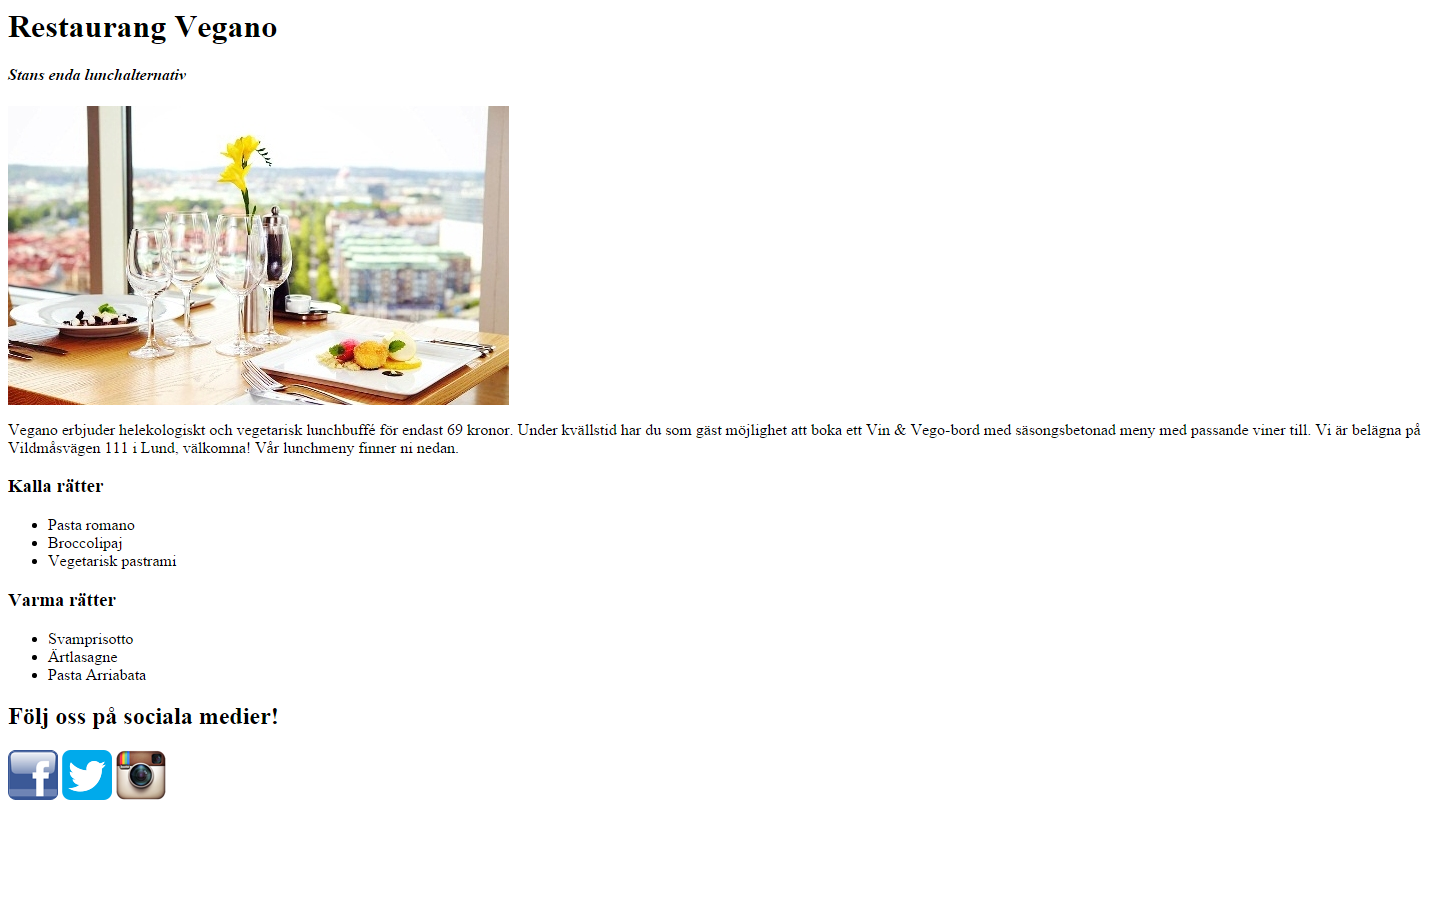
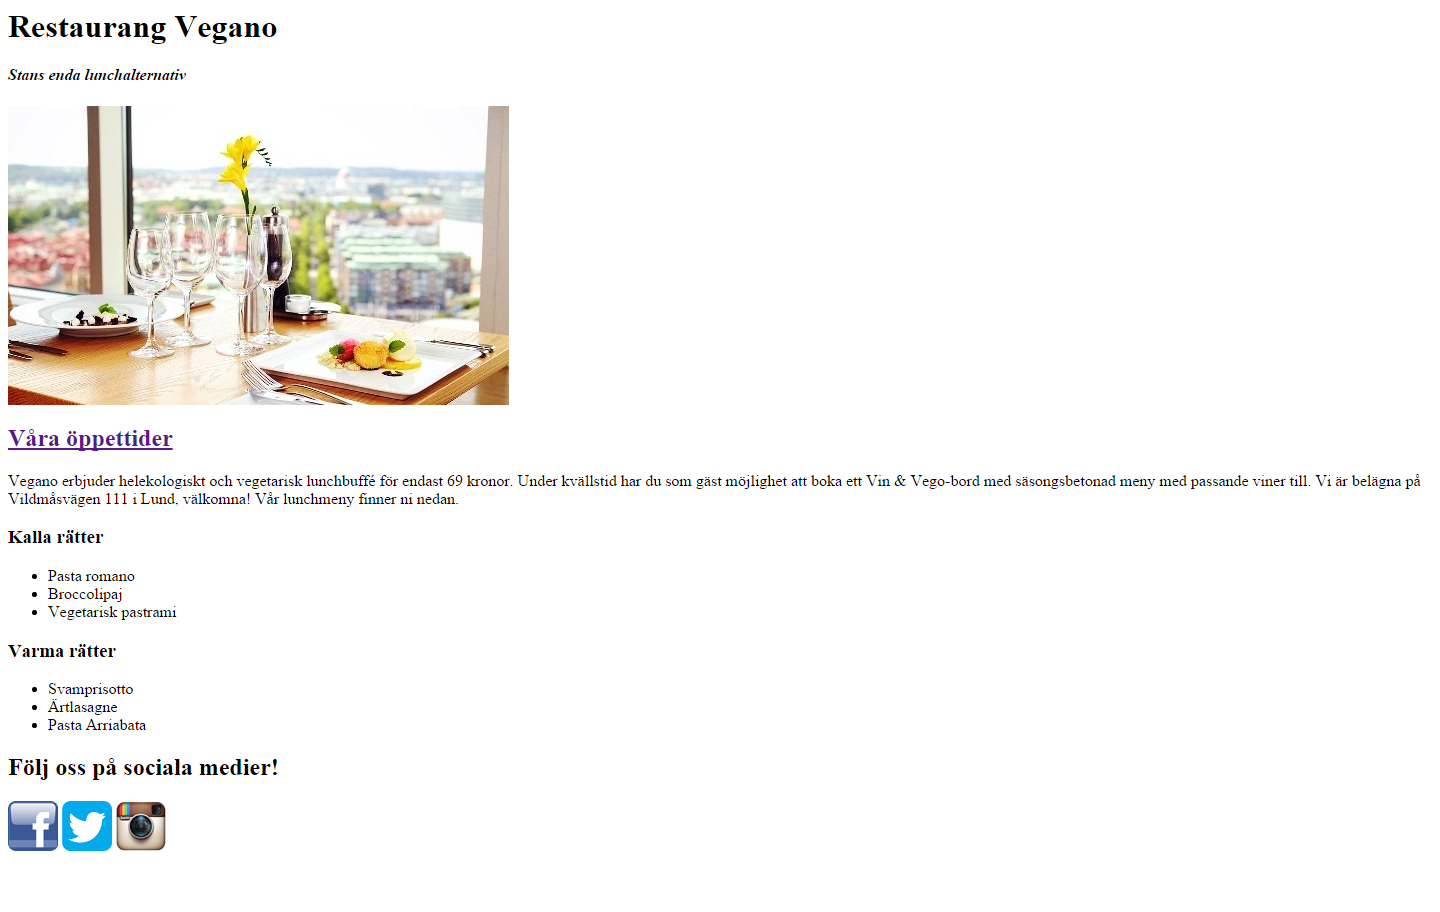
Added content and changes to Images-tutorial

Changed region(s): [[0.0, 0.4605, 1.0, 0.9518]]

diff --git a/exercises/1/ImagesLinks/ex2.html b/exercises/1/ImagesLinks/ex2.html
@@ -6,6 +6,7 @@
     <h1>Restaurang Vegano</h1>
     <h4><i>Stans enda lunchalternativ</i></h4>
     <img src="http://www.svenskamassan.se/Global/svenskamassan/bilder/restaurang.jpg" alt="Risotto">
+    <a href="http://www.facebook.com"><h2>Våra öppettider</h2></a>
     <p>Vegano erbjuder helekologiskt och vegetarisk lunchbuffé för endast 69 kronor. Under kvällstid har du som gäst möjlighet att boka ett Vin & Vego-bord med säsongsbetonad meny med passande viner till. Vi är belägna på Vildmåsvägen 111 i Lund, välkomna! Vår lunchmeny finner ni nedan.</p>
     
     <h3>Kalla rätter</h3>

diff --git a/exercises/1/ImagesLinks/index.php b/exercises/1/ImagesLinks/index.php
@@ -1,12 +1,12 @@
 <h2>Övning 3 - Bilder & länkar</h2>
     <h3>1. Fräscha upp hemsidan</h3>
-        <p>Vegano har övervägt och man önskar ha smakfull bild på restaurangen samt ett par länkar till de vanligaste sociala medierna som man använder:                facebook, twitter och instagram.</p>
+        <p>Vegano har övervägt och man önskar ha smakfull bild på restaurangen samt ett par länkar till de vanligaste sociala medierna som man använder:                facebook, twitter och instagram. Man skulle även vilja ha en länk som går till en del av hemsidan som visar deras öppettider.</p>
 
         <p>Vi ska i denna övning utgå från föregående kod som vi har lyckats få ihop hittills. Resultatet efter våra tillägg bör rimligen se ut på detta                vis:</p>
             <p><a href="/exercises/1/ImagesLinks/ex2.png" data-lightbox="Webbsida" data-title="Exempellösning"><img src="/exercises/1/ImagesLinks/ex2.png"                    style="width:250px; box-shadow:0 0 5px #000; display:block; margin:auto;">.</a></p>
-    <h3>2. Bild</h2>
+    <h3>2. Huvudbild - absolut sökväg</h2>
         <p>Det första vi kan börja med är att leta upp en trevlig bild på en restaurang. Har du ingen inspiration kan du ta denna 
-            <a href="http://www.svenskamassan.se/Global/svenskamassan/bilder/restaurang.jpg">bild</a>. Du kan antingenanvända länken direkt till bildtaggen             eller ladda ner den och länka till bilden i din mapp. Vegano önskar ha bilden precis under sina huvudrubriker, ungefär såhär.</p>
+            <a href="http://www.svenskamassan.se/Global/svenskamassan/bilder/restaurang.jpg">bild</a>. Använd hela länkens adress och stoppa i den i din tagg som en <i><a href="http://localhost:1234/lectures.php?type=Modul1&nr=Images#212-Absoluta-sokvagar">absolut sökväg</a></i>. Vegano önskar ha bilden precis under sina huvudrubriker, ungefär såhär.</p>
 <pre class="language-markup line-numbers" data-type="html"><code class="language-markup line-numbers">
 &lt;!doctype html&gt;
 &lt;html&gt;
@@ -21,45 +21,31 @@
 &lt;/html&gt;
 </code></pre> <!--Kan man gömma detta och låta studenten trycka på en knapp för att se lösningen?-->
 
-<h3>3. Rubriker</h3>
-<p>Nu när vi fått ordning på informationen om dokumentet ifråga ska vi börja med det inledande innehållet. Vi går nedåt ett snäpp från huvudet och ner på resten av <i>kroppen</i> (eng. body). Därför behöver vi definiera var detta innehåll ska vara.</p>
+<h3>3. Ikoner - relativ sökväg</h3>
+<p>En bild säger mer än tusen rader kod brukar det sägas, vilket lyft! Nästa utmaning vi ska ta oss an är att lägga upp ikonerna för facebook, twitter och instagram på slutet av sidan och sedan gör dem klickbara. Vi börjar med ikonerna. Till skillnad från föregående bild ska vi nu försöka länka dem direkt från en mapp på datorn, det vill säga som en <i><a href="http://localhost:1234/lectures.php?type=Modul1&nr=Images#211-Relativa-sokvagar">relativ sökväg</a></i>. Varje ikon kommer behöva en egen <code>&lt;img&gt;</code> tagg! Ladda ner följande zipfil och extrahera den i samma mapp som ditt HTML-dokument. Sökvägen bör se ut ungefär såhär:</p>
 <pre class="language-markup line-numbers" data-type="html"><code class="language-markup line-numbers">
-&lt;head&gt;
-    &lt;title&gt;&lt;/title&gt;
-&lt;/head&gt;
-&lt;body&gt;
-
-&lt;/body&gt;
+&lt;img src="images/namnet-på-din-bild"&gt;
 </code></pre>
-<p>Försök nu att placera in en passande rubrik mellan 'kropp'-taggarna samt en mindre rubrik nedanför den stora med en slogan. Storlek på rubriken bestäms från h1 (störst) till h6 (minst).
-<pre class="language-markup line-numbers" data-type="html"><code class="language-markup line-numbers">
-&lt;h1&gt;&lt;h2&gt;&lt;h3&gt;&lt;h4&gt;&lt;h5&gt;&lt;h6&gt;
-</code></pre>
+<p>Placera nu in ikonerna på rätt plats i dokumentet!
     
 <!-- Sätt in exempel -->
 
 
-<h3>3. Presentation och paragrafer</h3>
-<p>Förhoppningsvis sitter rubriken på plats! Nu är det dags att skriva en presentation och placera den i rätt ordning. Restaurangen har önskat en egen presentation, men du får gärna strunta i vad de tycker och skriva en bättre om du önskar. Använd paragraf-taggar för presentationen!</p>
-
+<h3>3. Klickbara ikoner</h3>
+<p>I <a href="http://localhost:1234/lectures.php?type=Modul1&nr=Links">länkföreläsningen</a> bekantade vi oss med <code>&lt;a&gt;</code> (står för eng. <i>anchor</i>) där vi kan ange relativa eller absoluta sökvägar till en annan plats. Det roliga är att bilder/ikoner också kan vara länkar! För att göra en klickbara ikoner behöver vi definiera dels vad det är som klickas på samt var vi hamnar när vi klickar på det. Du behöver därför "nästla" (eng. <i>nesting</i>) ikonerna innanför din <code>&lt;a&gt;</code> tagg: </p>
 <pre class="language-markup line-numbers" data-type="html"><code class="language-markup line-numbers">
-&lt;p&gt;&lt;/p&gt;
+&lt;a href="länk-till-annan-sida"&gt;&lt;img src="images/namnet-på-din-bild"&gt;&lt;/a&gt;
 </code></pre>
-<br>
-<p><i>"Vegano erbjuder helekologisk och vegetarisk lunchbuffé för endast 69 kronor. Under kvällstid har du som gäst möjlighet att boka ett Vin & Vego-bord med säsongsbetonad meny med passande viner till. Vi är belägna på Vildmåsvägen 111 i Lund, välkomna! Vår lunchmeny finner ni nedan."</i></p>
+<p>Använd gärna adresserna till rätt hemsida till varje ikon. Pröva sedan att byta ut adresserna och se vad som händer!</p>
 
-<h3>4. Menylista </h3>
-<p>Slutligen vill restaurangen att en del av deras lunchmeny ska finnas tillgänglig. Uppdelningen bör vara i rubriker med kalla och varma rätter med varsin punktad lista.</p>
+<h3>4. Öppettider </h3>
+<p>Eftersom du redan vid det här laget lyckats få klickbara ikoner så kommer denna delövning vara som en dagisövning. Det första vi behöver göra är att skapa ett nytt HTML-dokument i samma mapp som ditt nuvarande dokument. Du kan döpa den till <code>oppettider.html</code> exempelvis. Det viktiga är att du använder rätt namn senare till din relativa sökväg. Skapa sedan en enkel rubrik med "Våra öppettider" och denna gång får du välja själv när Vegano ska ha öppet.</p>
 
-<p>De kalla rätterna ska vara pasta romano, broccolipaj och vegetarisk pastrami. De varma rätterna ska vara svamprisotto, ärtlasagne och pasta arrabiata.   </p>
+<p>I ditt huvuddokument ska du nu lägga till en liknande rubrik med "Våra öppettider" precis under huvudbilden. Den ska agera ankare till vårt nyskapade dokument! Nästla nu en <code>&lt;a&gt;</code> tagg runt din rubrik.</p>
 <pre class="language-markup line-numbers" data-type="html"><code class="language-markup line-numbers">
-&lt;ul&gt;
-   &lt;li&gt;&lt;/li&gt;
-   &lt;li&gt;&lt;/li&gt;
-   &lt;li&gt;&lt;/li&gt;
-&lt;/ul&gt;
+&lt;a href="ditt-nya-html-dokument.html"&gt;
+   &lt;h2&gt;Namnet-på-din-länk&lt;/h2&gt;
+&lt;/a&gt;
 </code></pre>
 
-<p>Har du klarat detta är du på god väg att ha skapat din första hemsida à 1998 style! Oroa dig inte, det kommer bli bättre med tiden. Resultatet än så länge bör se ut ungefär såhär: 
-    <br>
-    <a href="/exercises/1/Text/ex1.png" data-lightbox="Webbsida" data-title="Exempellösning"><img src="/exercises/1/text/ex1.png" style="width:250px; box-shadow:0 0 5px #000; display:block; margin:auto;"></a>.</p><!--Vill gärna ha in facit html men vet ej hur--!>
+<p>Klarat det? Bra jobbat! Nu har vi lagt till lite trevligare estetik på sidan, mera interaktion och kommit ett steg närmare rätt århundrade. </p>
